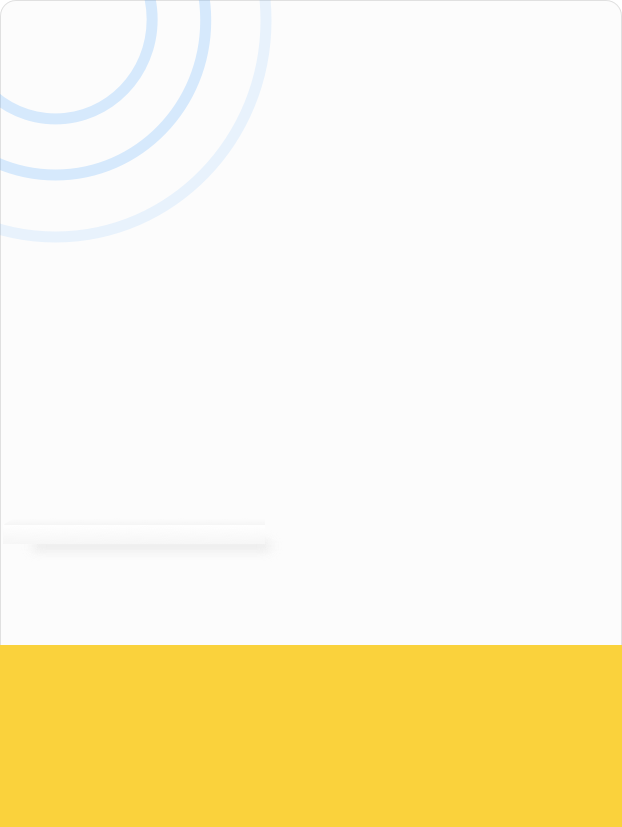
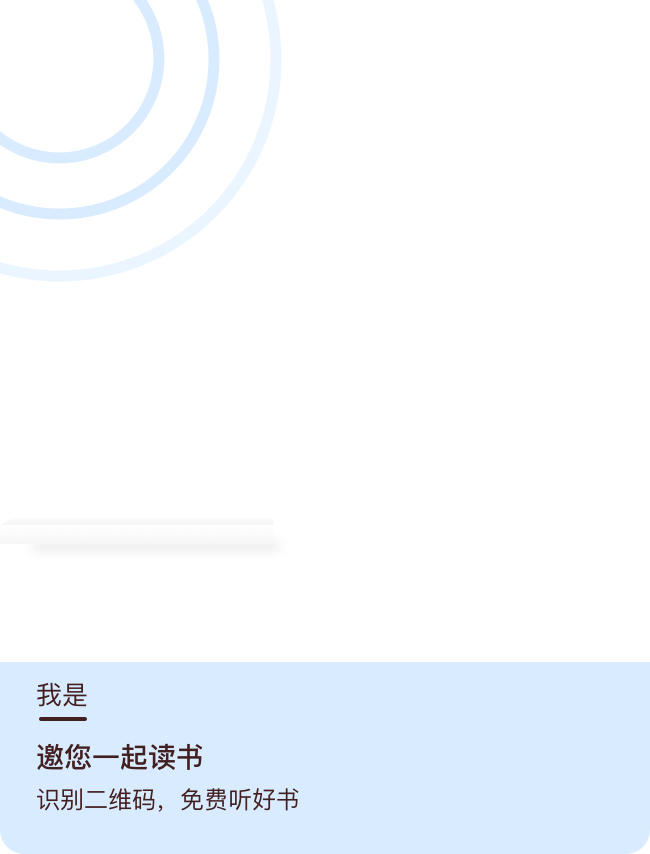
阅读音频分享图片

Changed region(s): [[0.0, 0.7557, 1.0, 1.0], [0.0, 0.0, 0.3666, 0.2721]]

diff --git a/reading-service/src/main/java/com/synapse/reading/util/ImgUtil.java b/reading-service/src/main/java/com/synapse/reading/util/ImgUtil.java
@@ -54,9 +54,9 @@ public class ImgUtil {
 //        String [] forName = e.getAvailableFontFamilyNames(); //返回包含在此所有字体系列名称的数组， GraphicsEnvironment本地化为默认的语言环境，如返回 Locale.getDefault() 。
 //        for (int i = 0; i < forName.length; i++) //逐行输出
 //            System.out.println(forName[i]);
-//        System.out.println(DrawSuccessPoster("http://img.jssns.cn/SHILU/1/b2572a8da5d47d586a04cae64168b649.png","http://img.jssns.cn/SHILU/1/eb818d6c4a0645f781bccfd515c71be1.png","http://img.jssns.cn/SHILU/1/43022872422734077.png","用户名", "在美好的声音中，遇见美妙的梦中，遇见你,dsdhasdkasdasd","嘿嘿嘿呵呵呵呵","哈哈哈"));
+//       System.out.println(DrawSuccessPoster("http://img.jssns.cn/SHILU/1/b2572a8da5d47d586a04cae64168b649.png","http://img.jssns.cn/SHILU/1/eb818d6c4a0645f781bccfd515c71be1.png","http://img.jssns.cn/SHILU/1/43022872422734077.png","用户名", "在美好的声音中，遇见美妙的梦中，遇见你,dsdhasdkasdasd","嘿嘿嘿呵呵呵呵","哈哈哈"));
 //      System.out.println(DrawSuccessPosterByBook("http://img.jssns.cn/SHILU/1/d5fec4fd30bffacd99eeb370cde3b794.png", "http://img.jssns.cn/SHILU/1/b9e31094ef25b321c4fd3c9aa57d2e20.jpg", "http://img.jssns.cn/SHILU/1/43022872422734077.png", "用户名", "在美好的声音中，遇见美妙的梦中，遇见你,dsdhasdkasdasd", "嘿嘿嘿呵呵呵呵", "http://img.njlsedu.cn/SHILU/1/da654a2ea016216d6d9b2f9dd5c1e3a3.png"));
-        System.out.println( DrawSuccessPosterByLesson("http://img.jssns.cn/SHILU/1/51410296903862188.png","http://img.jssns.cn/SHILU/1/51411069217550650.png","小李子，请扫码加我微信"));
+//        System.out.println( DrawSuccessPosterByLesson("http://img.jssns.cn/SHILU/1/51410296903862188.png","http://img.jssns.cn/SHILU/1/51411069217550650.png","小李子，请扫码加我微信"));
     }
 
 
@@ -77,7 +77,7 @@ public class ImgUtil {
 
 //        BufferedImage goodsBuffer = ImageIO.read(url);
 
-        BufferedImage goodsMinBuffer = ImgUtil.roundImage(ImgUtil.resizeByHeight(goodsBuffer, 167), 182,
+        BufferedImage goodsMinBuffer = ImgUtil.roundImage(ImgUtil.resizeByHeight(goodsBuffer, 210), 210,
                 0);
 //        FileOutputStream outImgStream =new FileOutputStream(modelUrl);
 
@@ -96,9 +96,9 @@ public class ImgUtil {
         ImageIO.write(erMinBuffer, "png", tempPng.toFile());
 
 
-        BufferedImage new1 = ImgUtil.synthesisPicAtXy(bgBuffer, erMinBuffer, 395, 553);// 二维码合并
+        BufferedImage new1 = ImgUtil.synthesisPicAtXy(bgBuffer, erMinBuffer, 406, 534);// 二维码合并
 
-        BufferedImage new2 = ImgUtil.synthesisPicAtXy(new1, goodsMinBuffer, 44, 304);// 奖品图合并
+        BufferedImage new2 = ImgUtil.synthesisPicAtXy(new1, goodsMinBuffer, 38, 296);// 奖品图合并
 
 
         ImageIO.write(new2, "png", tempPng.toFile());
@@ -118,25 +118,25 @@ public class ImgUtil {
         Font font34 = new Font("思源黑体 CN", Font.PLAIN, 34);
         Font font50 = new Font("思源黑体 CN", Font.BOLD, 50);
 
-        BufferedImage txt = ImgUtil.addTxtAtXy(new2, albumName, 30, 65, font50, black);
+        BufferedImage txt = ImgUtil.addTxtAtXy(new2, albumName, 30, 90, font50, black);
         String audioNameAll = "";
         int lines = (audioName.length() / 8);
         if (audioName.length() > 8) {
             for (int i = 0; i < lines; i++) {
                 audioNameAll = audioName.substring(0 + (i * 8), 8 + (i * 8));
-                txt = ImgUtil.addTxtAtXy(txt, audioNameAll, 37, 120 + (font34.getSize() + 4) * i, font34, black);
+                txt = ImgUtil.addTxtAtXy(txt, audioNameAll, 37, 150 + (font34.getSize() + 4) * i, font34, black);
             }
             audioNameAll = audioName.substring((lines * 8));
-            txt = ImgUtil.addTxtAtXy(txt, audioNameAll, 37, 120 + (font34.getSize() + 4) * lines, font34, black);
+            txt = ImgUtil.addTxtAtXy(txt, audioNameAll, 37, 150 + (font34.getSize() + 4) * lines, font34, black);
         } else {
-            txt = ImgUtil.addTxtAtXy(txt, audioName, 37, 120, font34, black);
+            txt = ImgUtil.addTxtAtXy(txt, audioName, 37, 150, font34, black);
         }
-        String userName = "我是" + wxNickName;
-        txt = ImgUtil.addTxtAtXy(txt, userName, 42, 696, font24, black1);
-        String name = "邀您一起读书";
-        String name1 = "识别二维码，免费听好书";
-        txt = ImgUtil.addTxtAtXy(txt, name, 42, 750, font28B, black1);
-        txt = ImgUtil.addTxtAtXy(txt, name1, 42, 800, font23, black1);
+//        String userName = "我是" + wxNickName;
+        txt = ImgUtil.addTxtAtXy(txt, wxNickName, 90, 684, font24, black1);
+//        String name = "邀您一起读书";
+//        String name1 = "识别二维码，免费听好书";
+//        txt = ImgUtil.addTxtAtXy(txt, name, 42, 750, font28B, black1);
+//        txt = ImgUtil.addTxtAtXy(txt, name1, 42, 800, font23, black1);
 
 
         String activityName = "";
